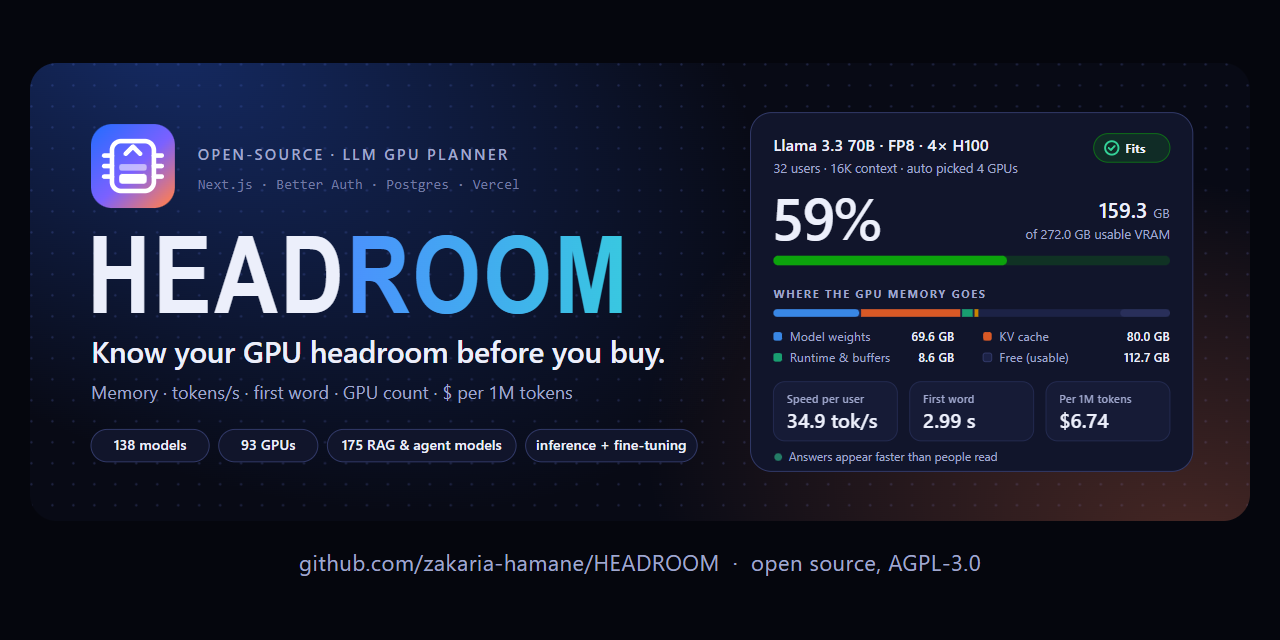
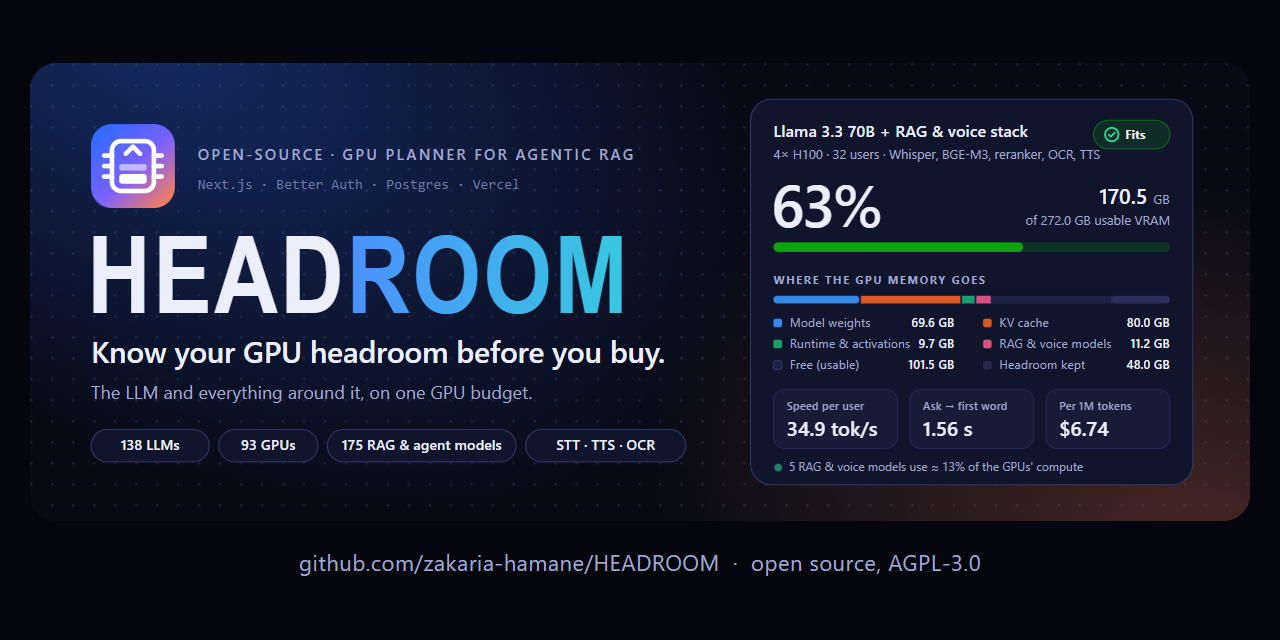
README: size the whole agentic RAG stack, not just the LLM
- New "The whole stack, on one GPU budget" section: pipeline diagram
  with real engine numbers and what Headroom computes for embedders,
  rerankers, parsers/OCR, speech-to-text, text-to-speech, guardrails,
  vision, PII and routers
- Voice agent worked example (Qwen3 8B + Whisper + Kokoro + BGE-M3 on
  2x L4) and a screenshot of the stack card
- Banner and social preview show Llama 3.3 70B with the Full RAG + voice
  stack; catalog badges per model type
- Live demo link: https://headroom-lemon.vercel.app

diff --git a/README.md b/README.md
@@ -1,8 +1,8 @@
 <div align="center">
 
-<img src="docs/banner.svg" alt="Headroom: know your GPU headroom before you buy" width="100%">
+<img src="docs/banner.svg" alt="Headroom: know your GPU headroom before you buy, for the whole agentic RAG stack" width="100%">
 
-### Plan GPU memory, tokens/s, first-token latency, GPU count and cost for any open LLM, before you buy a single card.
+### Size the GPUs for your whole agentic RAG stack, not just the LLM: embedders, rerankers, document parsers, speech-to-text, text-to-speech and guardrails, all sharing the same cards.
 
 <p>
   <a href="https://nextjs.org"><img alt="Next.js 16" src="https://img.shields.io/badge/Next.js-16-000000?style=for-the-badge&logo=nextdotjs&logoColor=white"></a>
@@ -19,16 +19,23 @@
 </p>
 
 <p>
-  <img alt="138 models" src="https://img.shields.io/badge/models-138-2F6BFF?style=flat-square">
-  <img alt="93 GPUs" src="https://img.shields.io/badge/GPUs_%26_accelerators-93-7B61FF?style=flat-square">
-  <img alt="175 RAG and agent models" src="https://img.shields.io/badge/RAG_%26_agent_models-175-FF7E51?style=flat-square">
-  <img alt="20 weight formats" src="https://img.shields.io/badge/weight_formats-20-38C9E0?style=flat-square">
-  <img alt="7 inference runtimes" src="https://img.shields.io/badge/runtimes-7-0CA30C?style=flat-square">
+  <img alt="138 LLMs" src="https://img.shields.io/badge/LLMs-138-2F6BFF?style=flat-square">
+  <img alt="40 embedders" src="https://img.shields.io/badge/embedders-40-4C6BFF?style=flat-square">
+  <img alt="22 rerankers" src="https://img.shields.io/badge/rerankers-22-6366F1?style=flat-square">
+  <img alt="25 speech-to-text models" src="https://img.shields.io/badge/speech--to--text-25-7B61FF?style=flat-square">
+  <img alt="16 text-to-speech models" src="https://img.shields.io/badge/text--to--speech-16-9B5CF0?style=flat-square">
+  <br>
+  <img alt="30 document parsers and OCR models" src="https://img.shields.io/badge/parsers_%26_OCR-30-C060C0?style=flat-square">
+  <img alt="19 guardrail models" src="https://img.shields.io/badge/guardrails-19-E0668F?style=flat-square">
+  <img alt="23 vision, PII and router models" src="https://img.shields.io/badge/vision%2C_PII_%26_routers-23-F27265?style=flat-square">
+  <img alt="93 GPUs and accelerators" src="https://img.shields.io/badge/GPUs_%26_accelerators-93-FF7E51?style=flat-square">
 </p>
 
+<a href="https://headroom-lemon.vercel.app"><img alt="Try it live: no signup" src="https://img.shields.io/badge/Try_it_live-no_signup-2F6BFF?style=for-the-badge&logo=vercel&logoColor=white" height="32"></a>
 <a href="https://vercel.com/new/clone?repository-url=https%3A%2F%2Fgithub.com%2Fzakaria-hamane%2FHEADROOM&project-name=headroom&repository-name=headroom&env=BETTER_AUTH_SECRET&envDescription=A%20random%20string%20of%2032%2B%20characters%20that%20signs%20sessions&envLink=https%3A%2F%2Fgithub.com%2Fzakaria-hamane%2FHEADROOM%23environment-variables&stores=%5B%7B%22type%22%3A%22integration%22%2C%22integrationSlug%22%3A%22neon%22%2C%22productSlug%22%3A%22neon%22%2C%22protocol%22%3A%22storage%22%7D%5D"><img src="https://vercel.com/button" alt="Deploy with Vercel"></a>
 
 <p>
+  <a href="#the-whole-stack-on-one-gpu-budget">The whole stack</a> ·
   <a href="#see-it">See it</a> ·
   <a href="#features">Features</a> ·
   <a href="#a-real-answer">A real answer</a> ·
@@ -47,14 +54,45 @@
 
 ---
 
-**Does it fit? Is it fast enough? What does it cost?** Those are the three questions behind every GPU purchase for an LLM, and spreadsheets answer them badly. Headroom answers all three as you type: pick a model, a precision, a GPU and a workload, and see exactly where every gigabyte of VRAM goes, how fast answers stream to each user, how long the first word takes under a burst, how many GPUs you actually need and what a million tokens will cost you.
+**An LLM never ships alone.** A real assistant transcribes speech, checks the request, embeds the question, searches and reranks, parses the documents it answers from, generates, and reads the answer back. Every one of those models takes memory and compute from the same GPUs, yet most sizing tools only count the LLM.
 
-It works for **inference and fine-tuning**, single servers and **TP × PP × DP clusters**, RAG and agent stacks that share the GPU, and offloading to RAM or NVMe. Make an account to save plans, share them with a link and compare them side by side.
+**Headroom sizes the whole stack.** Pick an LLM, add the models around it from a catalog of 175 (or start from a preset like *Voice agent* or *Full RAG + voice*), choose a GPU and a workload, and it answers three questions as you type:
+
+- **Does it fit?** Every gigabyte of VRAM: LLM weights, KV cache, runtime, and each embedder, reranker, parser, speech and guardrail model, on the GPU or moved to CPU + RAM.
+- **Is it fast enough?** Tokens per second per user against reading speed, real-time factors for speech, and the time from question to first word, with embedding, vector search, reranking and guardrail checks included.
+- **What does it cost?** How many GPUs, $ per hour and per million tokens, energy, and API costs for hosted parsers and rerankers.
+
+It works for **inference and fine-tuning**, single servers and **TP × PP × DP clusters**, and offloading to RAM or NVMe. Make an account to save plans, share them with a link and compare them side by side.
 
 > [!TIP]
 > No account is needed to plan. Drafts stay in your browser, and signing up saves them to your account.
 
 If Headroom saves you from buying the wrong GPUs, **a ⭐ on this repo helps other people find it.**
+
+## The whole stack, on one GPU budget
+
+<img src="docs/stack-diagram.svg" alt="One question through an agentic RAG stack on 4× H100: Whisper speech-to-text, BGE-M3 embedder, vector search, BGE reranker, Llama 3.3 70B and SILMA text-to-speech, with Granite-Docling parsing and indexing behind them. Question to first word 1.56 s; everything fits in 170.5 of 272.0 GB usable." width="100%">
+
+Each model in the stack runs on the GPU with the LLM, on CPU + RAM, or as a hosted API, and Headroom sizes it there:
+
+| In the stack | In the catalog | What Headroom computes |
+| --- | --- | --- |
+| **LLM** | 138 models: Llama, Qwen, DeepSeek, gpt-oss, Gemma and more | Weights and KV cache per user, tokens/s per user, first word under a burst, GPU count, $ per 1M tokens |
+| **Embedders** | 40, e.g. BGE-M3 | Memory, query latency, indexing speed in chunks/s |
+| **Rerankers** | 22, e.g. BGE Reranker v2 M3, hosted APIs | Memory, time to rerank the top passages, pairs/s, or API cost per 1,000 questions |
+| **Speech-to-text** | 25, e.g. Whisper large-v3 and turbo, Distil-Whisper | Memory, × real time, share of a GPU for your live streams, time to transcribe an hour |
+| **Text-to-speech** | 16, e.g. Kokoro-82M, XTTS-v2, F5-TTS | Memory, × real time, share of a GPU for your live voices |
+| **Parsers & OCR** | 30, e.g. Docling, Granite-Docling, Marker | Pages per hour and time for your document count, or API cost per 1,000 pages |
+| **Guardrails** | 19, e.g. Llama Guard 3 and 4, Prompt Guard 2 | Memory, time per check, checks per question |
+| **Vision, PII, routers** | 23, e.g. Qwen2.5-VL, GLiNER, Presidio, Arch-Router | Memory, time per call |
+
+Then it adds everything up: total GPU memory (and RAM for models you move to the CPU), the stack's share of GPU compute at your question rate, and **question → first word = embedding + vector search + reranking + guardrail + the LLM's first token**.
+
+<p align="center">
+  <img src="docs/stack.jpg" alt="A voice agent stack in Headroom: Whisper large-v3-turbo, Kokoro-82M and BGE-M3 next to Qwen3 8B on 2× L4, 85% of usable VRAM" width="100%">
+  <br>
+  <sub><b>A voice agent, sized as a whole.</b> Whisper, Kokoro and BGE-M3 share two L4s with Qwen3 8B. Each model shows its memory and throughput, and the result adds them to the LLM's budget.</sub>
+</p>
 
 ## See it
 
@@ -108,7 +146,8 @@ If Headroom saves you from buying the wrong GPUs, **a ⭐ on this repo helps oth
     <td width="33%" valign="top">
       <h4>Size it</h4>
       <ul>
-        <li><b>Planner</b>: model, RAG/agent stack, precision and runtime, hardware, workload, offloading and cost settings</li>
+        <li><b>The whole stack</b>: the LLM plus 175 models in 9 types (embedders, rerankers, parsers and OCR, speech-to-text, text-to-speech, guardrails, vision, PII, routers), each on the GPU, on CPU + RAM, or as an API</li>
+        <li><b>Presets</b> to start from: Starter RAG, Full RAG + voice, Document-heavy, Voice agent, Arabic voice, With guardrails, Cloud parsing + rerank</li>
         <li><b>Auto GPU count</b> on a single server, or clusters with tensor, pipeline and data parallelism</li>
         <li><b>Offloading</b> of layers or KV cache to RAM or NVMe, run on the CPU or copied over PCIe</li>
         <li><b>Fine-tuning</b>: full, LoRA and QLoRA, optimizers, ZeRO-1/2/3, checkpointing, training time and cost</li>
@@ -117,8 +156,9 @@ If Headroom saves you from buying the wrong GPUs, **a ⭐ on this repo helps oth
     <td width="33%" valign="top">
       <h4>Understand it</h4>
       <ul>
-        <li><b>Memory breakdown</b>: weights, KV cache, runtime and CUDA graphs, activations, companions, free and kept headroom</li>
-        <li><b>Speed per user</b> against human reading speed, <b>first word</b> under a burst, total throughput, compute used</li>
+        <li><b>Memory breakdown</b>: weights, KV cache, runtime and CUDA graphs, activations, every RAG and agent model, free and kept headroom</li>
+        <li><b>Speed per user</b> against human reading speed, <b>question → first word</b> with retrieval included, first word under a burst, total throughput</li>
+        <li><b>Throughput per model</b>: × real time and GPU share for live speech, pages/hour for parsers, chunks/s for indexing, and the stack's share of GPU compute</li>
         <li><b>Cost and energy</b>, server CPU and RAM, and plain-language warnings</li>
         <li><b>How it is calculated</b>: every formula with your numbers plugged in</li>
       </ul>
@@ -138,6 +178,24 @@ If Headroom saves you from buying the wrong GPUs, **a ⭐ on this repo helps oth
 Plus a searchable **catalog** with a page per model (weights per format, KV cache per user, smallest setup on popular GPUs), **templates** for common setups, light and dark themes, keyboard support and a mobile layout.
 
 ## A real answer
+
+### A voice agent on two L4s
+
+The *Voice agent* template: **Qwen3 8B** in FP8 for the answers, **Whisper large-v3-turbo** for speech-to-text, **Kokoro-82M** for text-to-speech and **BGE-M3** for retrieval, with **25 users** and an 8K-token context. Headroom picks **2× L4 24GB**.
+
+| Question | Headroom's answer |
+| --- | --- |
+| Does it fit? | **Yes, at 85%** of usable VRAM: 34.6 of 40.8 GB, on the 2 GPUs it picked |
+| Where does the memory go? | LLM weights 9.95 GB, KV cache 14.1 GB, runtime 4.30 GB, activations 0.34 GB, and **5.98 GB for the speech and retrieval models**: Whisper 3.01 GB, Kokoro 1.21 GB, BGE-M3 1.77 GB |
+| Can speech keep up? | Whisper runs at **× 78 real time**: 4 live streams use about 5% of a GPU, and an hour of audio takes about 46 s. Kokoro runs at about × 60 real time: 4 live voices use about 7%. |
+| Question → first word | embedding 8.88 ms + vector search 15.0 ms + LLM 1.46 s = **1.49 s** |
+| Is it fast enough? | **12.2 tokens/s per user**, about twice as fast as people read |
+| How busy is the stack? | At 1 question per user per minute, the speech and retrieval models use about **5.9% of the GPUs' compute** |
+| What does it cost? | **$1.46 per hour**, **$2.21 per 1M output tokens** at typical cloud rates |
+
+The speech and retrieval models take 6 GB, about 15% of the usable memory. Leave them out of the plan and this setup looks roomier than it is.
+
+### The KV cache surprise: Llama 3.3 70B on 4× H100
 
 One of the saved plans in the screenshots: a support assistant on **Llama 3.3 70B** in FP8, **64 people chatting at once** with a 16K-token context, on **4× H100 SXM 80GB**.
 
@@ -161,7 +219,9 @@ so 64 users need 160 GB of KV cache, more than twice the weights. Generation is 
 
 ## Quick start
 
-Requires Node.js 22.9 or newer.
+Nothing to install: **[try it live at headroom-lemon.vercel.app](https://headroom-lemon.vercel.app)**, no signup needed.
+
+To run it yourself, you need Node.js 22.9 or newer.
 
 ```bash
 git clone https://github.com/zakaria-hamane/HEADROOM.git
